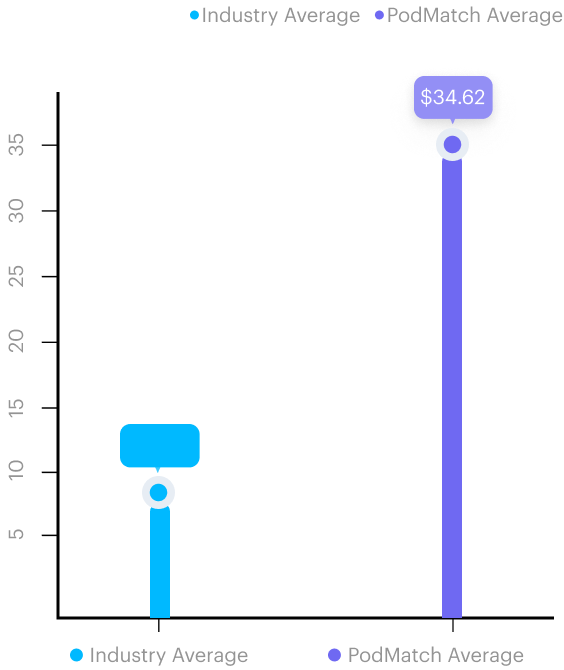
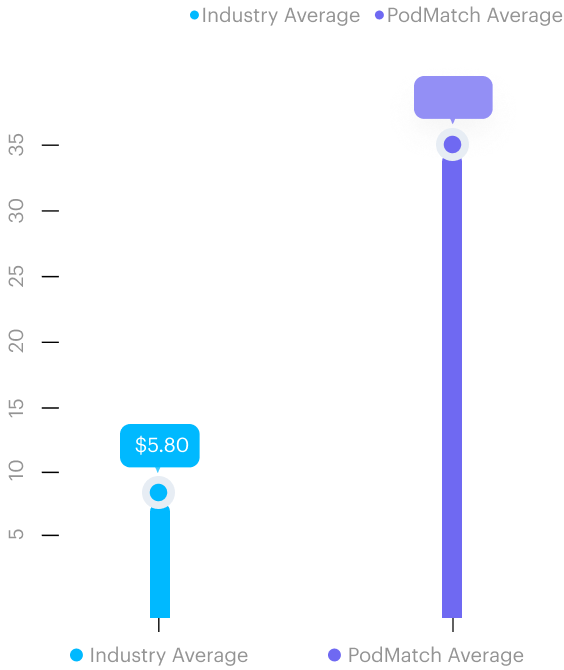
update done

diff --git a/master1.html b/master1.html
@@ -12,10 +12,18 @@
     <link rel="stylesheet" href="./assets/css/root.css" />
     <link rel="stylesheet" href="./assets/css/style.css" />
     <link rel="stylesheet" href="assets/css/master.css">
+    <link rel="stylesheet" href="assets/css/dev.css">
+    <link rel="stylesheet" href="assets/css/spam.css">
 </head>
 <style>
     .prouction_P {
         padding-top: 152px;
+    }
+
+    .text_gradient {
+        background: linear-gradient(311.05deg, #6F69F2 0%, #00B9FF 155.6%);
+        -webkit-background-clip: text;
+        -webkit-text-fill-color: transparent;
     }
 
     .aep_chart {
@@ -41,6 +49,10 @@
         height: auto;
     }
 
+    .w_536 {
+        max-width: 536px !important;
+    }
+
     .y_axis_label {
         writing-mode: vertical-rl;
         transform: rotate(180deg);
@@ -57,16 +69,16 @@
     }
 
     .gap_60 {
-        gap: 60px;
+        gap: 60px !important;
     }
 
     .average_mothly_py {
-        padding-top: 23px;
-        padding-bottom: 16px;
+        padding-top: 23px !important;
+        padding-bottom: 16px !;
     }
 
     .gap_6 {
-        gap: 24px;
+        gap: 24px !important;
     }
 
     .industry_box.seeking_guest_box {
@@ -79,24 +91,24 @@
     }
 
     .seeking_guest_box {
-        border: 1px solid #00b9ff;
-        padding: 16px 24px;
+        border: 1px solid #00b9ff !important;
+        padding: 16px 24px !important;
         max-width: 224px !important;
-        width: 100%;
-        border-radius: 16px;
+        width: 100% !important;
+        border-radius: 16px !important;
     }
 
     .gap_24 {
-        gap: 24px;
+        gap: 24px !important;
     }
 
     .arrow_w {
-        width: 57px;
-        margin: 7px 0px 0px 0px;
+        width: 57px !important;
+        margin: 7px 0px 0px 0px !important;
     }
 
     .june_dropdown.select_bg {
-        background-color: #fff;
+        background-color: #fff !important;
         padding: 7px 12px 6px 10px !important;
     }
 
@@ -104,9 +116,13 @@
         max-width: 404px !important;
     }
 
+    .chance_box {
+        height: 106px !important;
+    }
+
     @media (max-width: 1199.98px) {
         .Podcaster_heading {
-            max-width: 566px;
+            max-width: 566px !important;
         }
 
         .shadow_box {
@@ -116,7 +132,10 @@
         }
 
         .gap_28 {
-            gap: 28px;
+            gap: 28px !important;
+        }
+        .chance_box{
+            height: 102px !important;
         }
     }
 
@@ -129,7 +148,10 @@
         }
 
         .gap_74 {
-            gap: 74px;
+            gap: 74px !important;
+        }
+         .chance_box{
+            height: 102px !important;
         }
 
         @media (max-width:575.98px) {
@@ -151,6 +173,18 @@
                 height: 335px;
                 object-fit: cover;
             }
+
+            .prouction_P {
+                padding-top: 80px;
+            }
+
+            .w_536 {
+                max-width: 100% !important;
+            }
+        }
+
+        .chance_box {
+            height: 90px !important;
         }
     }
 </style>
@@ -159,15 +193,29 @@
     <section class="bg-white prouction_P">
         <div class="custom_container position-relative">
             <div class="d-flex flex-column flex-lg-row align-items-lg-center gap_60 gap_28 gap_74">
-
                 <div class="left_content">
-                    <select class="select_bg june_dropdown aep_select p-0 text-center fs_xsm">
-                        <option value="June">June 2025</option>
-                        <option value="June">June 2025</option>
-                        <option value="June">June 2025</option>
-                        <option value="June">June 2025</option>
-                    </select>
+                    <div class="position-relative">
+                        <div id="futureselectBox"
+                            class="d-flex align-items-center justify-content-between select_box select_bg cursor_pointer">
+                            <p id="future" class="ff_graphik fs_xsm cursor_pointer lh_110 mb-0 text-nowrap">March 2024
+                            </p>
 
+                        </div>
+                        <div id="futureoptions" class="position-absolute d-none option_box">
+                            <p onclick="futureselectValue('March 2024')"
+                                class="ff_graphik fs_xsm cursor_pointer w-100 mb-0 option_item fw-normal">
+                                March 2024
+                            </p>
+                            <p onclick="futureselectValue(' Feb 2024')"
+                                class="ff_graphik fs_xsm cursor_pointer w-100 mb-0 option_item fw-normal">
+                                Feb 2024
+                            </p>
+                            <p onclick="futureselectValue(' Jan 2024')"
+                                class="ff_graphik fs_xsm cursor_pointer w-100 mb-0 option_item fw-normal">
+                                Jan 2024
+                            </p>
+                        </div>
+                    </div>
                     <h2 class="ff_graphik fs_5xl lh_120 clr_black mb-0 Podcaster_heading fw-semibold mt-3">
                         Average Monthly Income for Podcasters <span><img src="./assets/images/svg/warning_symbol.svg"
                                 alt="warning_symbol"></span>
@@ -176,21 +224,22 @@
                         Estimated income is from ads and sponsorships, based on a <span
                             class="fw-semibold">$46.30</span> CPM for weekly interview-based podcasts.
                     </p>
-                    <div class="d-flex align-items-center justify-content-start mt-sm:pt-3 pt-2 gap_6">
-                        <div class="industry_box seeking_guest_box d-flex flex-column justify-content-center">
-                            <p class="mb-0 clr_skyblue ff_graphik fw-medium fs_sm lh_150 pb-2">Industry</p>
-                            <p class="mb-0 clr_skyblue ff_graphik fw-medium fs_2xl lh_120 pb-1">$5.80</p>
+                    <div class="d-flex align-items-center justify-content-start pt-3 p_1 gap_6 w_536">
+                        <div
+                            class="industry_box seeking_guest_box d-flex flex-column justify-content-center chance_box">
+                            <p class="mb-0 clr_skyblue ff_graphik fw-medium fs_sm lh_110 pb-2">Industry</p>
+                            <p class="mb-0 clr_skyblue ff_graphik fw-medium fs_2xl lh_110 ws_nowrap">$5.80</p>
                         </div>
-                        <div class="industry_podmatch_box seeking_guest_box chance_3">
-                            <p class="mb-0 clr_purple ff_graphik fw-medium fs_sm lh_150 pb-2">PodMatch</p>
-                            <p class="mb-0 clr_purple ff_graphik fw-medium fs_2xl lh_120 pb-1 ws_nowrap">$34.62</p>
+                        <div class="industry_podmatch_box seeking_guest_box chance_box">
+                            <p class="mb-0 clr_off_purple ff_graphik fw-medium fs_sm lh_110 pb-2">PodMatch</p>
+                            <p class="mb-0 clr_off_purple ff_graphik fw-medium fs_2xl lh_110 ws_nowrap">$34.62</p>
                         </div>
                     </div>
                     <div class="d-flex align-items-start mt-3 mt-sm-4 gap_24">
 
                         <img class="ms-sm-2 d-sm-none d-block" src="/assets/images/svg/future_arrow_vector.svg"
                             alt="arrow_vector" />
-                        <p class="mb-0 fw-bold fs_sm lh_150 gradient_text ff_graphik ms-2 w_404">
+                        <p class="mb-0 fw-bold fs_sm lh_150 text_gradient ff_graphik ms-2 w_404">
                             The average podcaster on PodMatch earns 497.59% more than the industry average podcaster!
                         </p>
                         <img class="arrow_w d-sm-block d-none" src="/assets/images/svg/arrow_vector.svg"
@@ -198,12 +247,12 @@
                     </div>
                 </div>
                 <div class="d-flex position-relative flex-column align-items-center shadow_box">
-                    <span class="position-absolute y_axis_label gradient_text">Income in USD ($)</span>
+                    <span class="position-absolute y_axis_label text_gradient">Income in USD ($)</span>
                     <img class="prodcaster_chart d-sm-none d-block" src="./assets/images/png/prodcaster_img2.png"
                         alt="possible_future" />
                     <img class="prodcaster_chart d-sm-block d-none" src="./assets/images/png/prodcaster_img.png"
                         alt="possible_future" />
-                    <p class="mb-0 fw-bold fs_xsm lh_150 gradient_text ff_graphik text-center average_mothly_py">
+                    <p class="mb-0 fw-bold fs_xsm lh_150 text_gradient ff_graphik text-center average_mothly_py">
                         Average Monthly Income for Podcasters (Monetization)
                     </p>
                 </div>

diff --git a/assets/css/master.css b/assets/css/master.css
@@ -158,21 +158,6 @@
 }
 
 .select_bg {
-<<<<<<< HEAD
-  background-color: #e9e6e6;
-  border: 1px solid #d2cfcf;
-  border-radius: 4px;
-  color: #474646;
-  padding: 6.5px 23px 4.12px 10px;
-  -webkit-appearance: none;
-  -moz-appearance: none;
-  appearance: none;
-  outline: none;
-  background-image: url('/assets/images/webp/select_arrow.webp');
-  background-size: 9px 5px;
-  background-repeat: no-repeat;
-  background-position: 95px !important;
-=======
     width: 115px;
     padding: 6px 11px;
     background-color: #e9e6e6;
@@ -187,7 +172,6 @@
     background-size: 9px 5px;
     background-repeat: no-repeat;
     background-position: calc(100% - 12px) center;
->>>>>>> 7c19f9f812699a4304c31bfc5a9d9b7d3bf0b0d7
 }
 
 .active_box {
